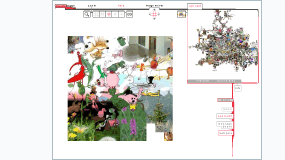
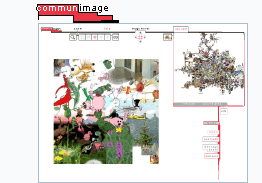
research casi casi

diff --git a/public/stylesheets/lab.css b/public/stylesheets/lab.css
@@ -171,16 +171,23 @@ a {
 .main .screen2 {
     border: solid 1px #afbcc5;
     margin-left: 5px;
- }
+}
 
-  .main .c1 {
-  float: left;
+.main .c1 {
+    float: left;
 
 }
 
- .main .c2 {
-     width: 480px;
+.main .c2 {
+    width: 480px;
     margin-left: 210px;
+    margin-right: 70px;
+
+}
+
+.main .c3 {
+    width: 410px;
+    margin-left: 270px;
     margin-right: 70px;
 
 }
@@ -195,5 +202,5 @@ h1 {
 h2 {
     color: #333333;
     font-weight: bold;
-    }
+}
 
